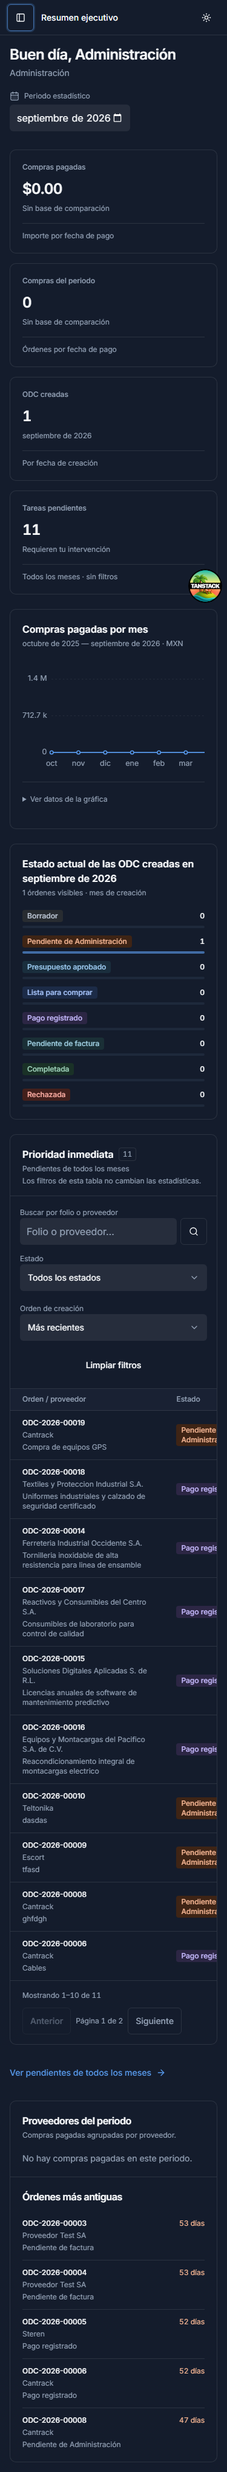
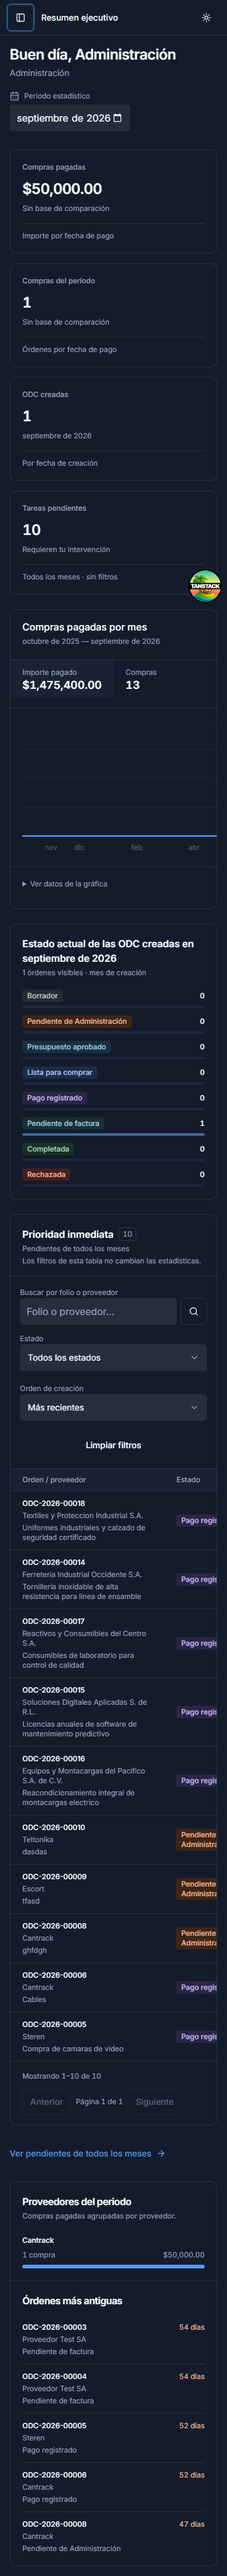
docs(workspace): record interactive chart verification (R7)

diff --git a/progress/review_executive-workspace-v2.md b/progress/review_executive-workspace-v2.md
@@ -9,9 +9,10 @@ Alcance: R1–R14 de la spec aprobada; no equivale a cerrar toda la auditoría d
 
 | Verificación | Resultado |
 |---|---|
-| `./init.sh` final, después de `67bff4d` | Exit 0; 484 tests backend, 655 frontend, ambos builds y lint backend verdes |
+| `./init.sh` final, después de `1054c8f` | Exit 0; 484 tests backend, 656 frontend, ambos builds y lint backend verdes |
 | PostgreSQL: `docker compose exec -T backend pnpm exec jest --config ./test/jest-e2e.json --runInBand --testPathPatterns executive-workspace` | 3/3; límites México/UTC, páginas 10/10/7, visibilidad, búsqueda literal, agregados reales. Tablas temporales y rollback, sin escrituras de negocio |
 | `pnpm --dir frontend exec playwright test e2e/dashboard-template.spec.ts --workers=1` | 3/3, 24 combinaciones: roles OPS/ADMIN/DG × 375/768/1024/1440 × claro/oscuro. Header fijo, 44px móvil, ejes ≥12px efectivos, sin overflow global ni errores de hidratación; menú y reduced motion |
+| `pnpm --dir frontend exec playwright test e2e/dashboard-template.spec.ts --grep "admin shell"` tras el ajuste | 1/1, 8 combinaciones ADMIN; selector importe/compras, línea visible, tamaños de eje, temas y ausencia de overflow |
 | `pnpm --dir frontend exec playwright test e2e/executive-workspace.spec.ts --workers=1` | 2/2 en código final: filtros/URL/retry exacto/respuesta tardía; creación revisada, teclado/Escape/foco, campos inválidos/válidos, modal móvil/escritorio claro/oscuro, header/aside, doble clic y reintento de la misma identidad |
 | Contraste | `styles.tokens.test.ts::R5` verifica ≥4.5:1 para estados y pares de texto usados, ambos temas; incluido en suite verde |
 | Detector Impeccable, siete targets cambiados | Una ejecución, exit 0, `[]`; no se interpreta como certificación de accesibilidad |
@@ -19,13 +20,13 @@ Alcance: R1–R14 de la spec aprobada; no equivale a cerrar toda la auditoría d
 
 Las pruebas de navegador interceptan cada escritura de creación/envío; el inicio de sesión de cuentas locales y las consultas son reales. La prueba de respuesta tardía deja volver a página 1 mientras página 3 está pendiente y confirma que su respuesta posterior no sustituye la selección vigente.
 
-Precisión de corridas: `odc-v2-visual-confirm.log` corresponde al dashboard corregido en el working tree antes de agruparlo en `67bff4d`; no cambió después. Usa `--output=test-results/workspace-matrix` (su `.last-run.json` está en passed), no el directorio default que conserva corridas rojas. El ajuste posterior del modal está cubierto por `odc-v2-flows-final.log` y `--output=test-results/workspace-flows`, también passed. Init sí corrió después de `67bff4d`; el cambio posterior `33c1f7c` solo quita una aserción de tipo redundante de una prueba, con lint y 7/7 verdes.
+Precisión de corridas: `odc-v2-visual-confirm.log` conserva la matriz original del dashboard en `67bff4d`. El ajuste posterior de gráfica quedó cubierto por la corrida ADMIN de ocho combinaciones, las capturas finales reemplazadas y el `init.sh` posterior a `1054c8f`. El ajuste del modal permanece cubierto por `odc-v2-flows-final.log` y `--output=test-results/workspace-flows`.
 
-El primer init bajo ejecución concurrente tuvo un timeout en DatePicker; el init aislado final pasó los 655 tests, incluido DatePicker. No se cambió ni silenció esa prueba.
+El primer init bajo ejecución concurrente tuvo un timeout en DatePicker; el init aislado final y el posterior al ajuste de gráfica pasaron, este último con 656 tests frontend. No se cambió ni silenció esa prueba.
 
 ## persistence
 
-Requisitos aprobados, enmienda de página y documentación de diseño sincronizada exclusivamente para #32. R→test→commit completo en `specs/executive-workspace-v2/traceability.md`. Sin nuevas dependencias ni migración de datos. STATUS, feature done, checklist y cierre de progreso registran este veredicto.
+Requisitos aprobados, enmienda de página y documentación de diseño sincronizada exclusivamente para #32. R→test→commit completo en `specs/executive-workspace-v2/traceability.md`. El ajuste posterior incorpora Recharts por solicitud explícita del usuario; no incluye migración de datos. STATUS, feature done, checklist y cierre de progreso registran este veredicto.
 
 ## fidelity
 
@@ -39,8 +40,8 @@ No se pidió reconstrucción de identidad ni ornamentación. Se conserva composi
 
 | Hallazgo | Corrección y evidencia | Veredicto final |
 |---|---|---|
-| Ejes SVG de 8.555px efectivos en móvil | Rojo `e5a1ca4`; `67bff4d` usa 16 unidades SVG y la matriz confirma ≥12px | **Resolved** |
-| R13/R14: evidencia final y estabilidad de formulario | 484+655 unitarias y 5 E2E verdes; SSR SVG `0652537`; proveedor sin cierre con valor viejo y espacio del botón cerrar `67bff4d` | **Resolved** |
+| Legibilidad de ejes en móvil | Rojo inicial `e5a1ca4`; la matriz actual mide las etiquetas Recharts en ≥12px | **Resolved** |
+| R13/R14: evidencia final y estabilidad de formulario | 484+656 unitarias verdes; selector interactivo verificado en ocho combinaciones; proveedor y modal permanecen cubiertos | **Resolved** |
 | C5/C6: estados y trazabilidad | `status: approved`, aprobación humana anterior, R1–R14 con tests/hashes, checklist de implementación | **Resolved** |
 
 ## keep
@@ -54,4 +55,4 @@ Estadísticas mensuales separadas de pendientes globales; reglas/visibilidad en 
 - Revisión de ODC móvil: [order-review-mobile.png](../.impeccable/review/order-review-mobile.png).
 - Revisión de ODC escritorio: [order-review-desktop.png](../.impeccable/review/order-review-desktop.png).
 
-Las 24 capturas de la matriz y cuatro del formulario se generan en `frontend/test-results/`; las cuatro anteriores se conservan como evidencia de cierre.
+Las 24 capturas de la matriz y cuatro del formulario se generan en `frontend/test-results/`; `desktop.png` y `mobile.png` corresponden a la gráfica interactiva actual.

diff --git a/specs/executive-workspace-v2/traceability.md b/specs/executive-workspace-v2/traceability.md
@@ -18,6 +18,7 @@ tags: [harness, spec, traceability]
 - R1: rojo `043ef67` → `192d74e`; header sticky/offsets y medición real en dashboard/formulario verdes.
 - R13 navegador: rojo `f121eed` → `192d74e`; `88981de` añade respuesta tardía de página 3 tras volver a página 1, sin sobrescribir datos/URL.
 - R14 SSR: rojo `0542704` → `0652537`, títulos SVG de un solo string; 7/7 pruebas de workspace verdes. R14 ejes: rojo `e5a1ca4` (8.555px efectivos) → `67bff4d` (≥12px medidos).
+- Ajuste R7 solicitado: rojo `784c9a6` → componente interactivo shadcn/Recharts `f53561b`; selector de importe/compras, tooltip, escala desde cero y tabla textual. Guardas de dependencia actualizadas en `1054c8f`. Playwright ADMIN pasó 8 combinaciones de tema/ancho y `init.sh` final pasó 484 backend / 656 frontend.
 - R11 proveedor: navegador rojo `88981de` → `67bff4d`, sin revalidar el valor anterior al cerrar el selector; 26 pruebas formulario/workspace verdes. E2E de creación intercepta todas las escrituras; no crea datos de negocio.
 - Matriz `frontend/e2e/dashboard-template.spec.ts`: 3 pruebas / 24 combinaciones verdes; 375/768/1024/1440, OPS/ADMIN/DG, claro/oscuro, sin desbordamiento global ni errores de hidratación. Contraste de tokens ≥4.5:1 cubierto por `frontend/src/styles.tokens.test.ts::R5`.
 
@@ -29,13 +30,13 @@ tags: [harness, spec, traceability]
 | R4 | mismos tests R2,R3,R4 y PostgreSQL R2-R10 — páginas 10/10/7 y orden estable | rojo `091f44a` → `8854dc9` |
 | R5 | `executive-workspace.spec.ts::R5,R7,R8,R9`; PostgreSQL R2-R10 — ADMIN DESC antes de paginar | rojo `091f44a` → `8854dc9` |
 | R6 | `frontend/src/components/odc/executive-workspace.test.tsx::R3,R4,R6,R7,R8,R9,R10`; PostgreSQL R2-R10 — periodo independiente | rojo `0962e9f` → `192d74e`; backend `8854dc9` |
-| R7 | `executive-workspace.spec.ts::R5,R7,R8,R9`; PostgreSQL R2-R10; UI R7 — doce meses y tabla textual | rojo `091f44a`/`0962e9f` → backend `8854dc9`, UI `192d74e` |
+| R7 | `executive-workspace.spec.ts::R5,R7,R8,R9`; PostgreSQL R2-R10; UI R7 — doce meses, selector interactivo y tabla textual | rojo `091f44a`/`0962e9f` → backend `8854dc9`, UI `192d74e`; ajuste rojo `784c9a6` → `f53561b` |
 | R8 | mismos tests backend R8 y UI R8 — ocho estados/cohorte y borradores ajenos | rojo `091f44a`/`0962e9f` → backend `8854dc9`, UI `192d74e` |
 | R9 | mismos tests backend R9 y UI R9 — cuatro KPI, null/cero y total completo | rojo `091f44a`/`0962e9f` → backend `8854dc9`, UI `192d74e` |
 | R10 | PostgreSQL R2-R10; `executive-workspace.test.tsx::R10`; regresiones `executive-dashboard.test.tsx` — contexto y enlace all | backend `8854dc9`; regresiones `7063c42`; UI `192d74e` |
 | R11 | `frontend/src/components/odc/odc-form.test.tsx::workspace v2 R11,R12` — revisión, snapshot, Escape/foco, cancelar | rojo `e4d4b4c` → `37956d9 feat(odc): review creation and recover saved submissions` |
 | R12 | mismo test R11,R12 — doble clic, folio real, reintento del mismo ID y resultado incierto | rojo `e4d4b4c` → `37956d9` |
 | R13 | `frontend/e2e/executive-workspace.spec.ts::R3,R4,R13` — retry de página 2 conserva filtros, back/forward y respuesta tardía de página 3 | rojo `f121eed` → `192d74e`; prueba ampliada `88981de` |
-| R14 | `frontend/src/lib/theme.test.tsx`; `executive-workspace.test.tsx::R14`; matriz `dashboard-template.spec.ts::R1,R14`; flujo `executive-workspace.spec.ts::R11,R12,R14`; contraste `styles.tokens.test.ts::R5`; acta de revisión e init final | tema `56474f1`; SVG `0652537`; legibilidad/formulario `67bff4d`; E2E `8fddbef` |
+| R14 | `frontend/src/lib/theme.test.tsx`; `executive-workspace.test.tsx::R14`; matriz `dashboard-template.spec.ts::R1,R14`; flujo `executive-workspace.spec.ts::R11,R12,R14`; contraste `styles.tokens.test.ts::R5`; acta de revisión e init final | tema `56474f1`; SVG inicial `0652537`; legibilidad/formulario `67bff4d`; E2E `8fddbef`; gráfica interactiva `f53561b` |
 
 Las pruebas PostgreSQL usan tablas temporales y rollback, sin modificar las tablas de negocio. Las capturas finales y el resultado del reviewer se registran en `progress/review_executive-workspace-v2.md`. El typecheck adicional mantiene los 18 errores históricos de tests documentados en la auditoría, sin errores nuevos en la aplicación.

diff --git a/STATUS.md b/STATUS.md
@@ -41,18 +41,19 @@ Requiere `.env` en la raíz (plantilla en `.env.example`): `DATABASE_URL`,
   [plans/002-system-review.md](plans/002-system-review.md). Incluye UX, integridad,
   archivos, consultas y preparación productiva. #32 resuelve el workspace;
   integridad/archivos y las demás entregas del plan conservan su alcance propio.
-- **#32 `executive-workspace-v2` done**: gráficas reales de 12 meses,
+- **#32 `executive-workspace-v2` done**: gráfica interactiva shadcn/Recharts con
+  importe pagado y número de compras sobre datos reales de 12 meses,
   indicadores y distribución por estado, filtros/paginación de 10, mes de creación
   en Mis tareas, prioridades ADMIN recientes, header fijo y resumen de creación
   con folio posterior. Requisitos en
   [specs/executive-workspace-v2/requirements.md](specs/executive-workspace-v2/requirements.md),
-  aprobados antes de código. Reutiliza shell/componentes actuales, sin dependencias nuevas.
+  aprobados antes de código. Reutiliza el shell y componentes actuales.
   Header de 58/64px, tablas de 10 con URL, creación por mes México y recuperación
   de envío sobre el mismo id; se corrigieron la hidratación del tema/gráfica y
   la validación tardía del proveedor. Evidencia en
   [progress/review_executive-workspace-v2.md](progress/review_executive-workspace-v2.md).
   Revisión independiente final: **ship**, tres correcciones materiales resueltas.
-- **Verificación #32**: init final verde (484 backend / 655 frontend), 3 pruebas
+- **Verificación #32**: init final verde (484 backend / 656 frontend), 3 pruebas
   PostgreSQL aisladas y 5 Playwright (matriz 24 combinaciones y flujos).
   El typecheck adicional conserva 18 errores previos en tests, sin errores nuevos
   de aplicación; es deuda F11 del plan, fuera del gate de build actual.

diff --git a/specs/executive-workspace-v2/design.md b/specs/executive-workspace-v2/design.md
@@ -65,7 +65,7 @@ Dashboard: `month` gobierna exclusivamente estadísticas. Los otros parámetros 
 
 Reutilizar Base UI/shadcn ya presente (`Table`, `Select`, `Input`, `Button`, `Dialog`, estados/alertas) y los tokens navy/estado/Inter aprobados. Buscar el componente mediante MCP shadcn si está disponible antes de instalar o escribir una nueva primitiva; si no está disponible, las primitivas locales cubren estos controles. El aviso MIT y la procedencia de la feature 31 se conservan.
 
-No hay biblioteca de gráficas instalada. Para esta primera serie fija de 12 meses, usar SVG/CSS semántico con ejes/meses y valores accesibles, acompañado de tabla textual consultable; distribución por estado con barras y leyenda de cantidades. Los tooltips, si existen, son complementarios y deben funcionar con teclado; no son el único acceso a los valores. Esta representación específica evita traer una biblioteca por una serie. Una dependencia solo se reconsidera si las interacciones aprobadas demuestran que la opción nativa no cubre accesibilidad/mantenimiento y queda justificada expresamente; no es el plan base.
+La implementación inicial usó SVG/CSS semántico. El 2026-09-13 el usuario solicitó expresamente sustituirla por el componente interactivo shadcn basado en Recharts. La adaptación permite alternar entre importe pagado y número de compras, conserva escala desde cero, datos reales de los 12 meses, tooltip y tabla textual consultable. La tabla sigue siendo la fuente accesible completa; el tooltip es complementario. La distribución por estado permanece con barras y cantidades.
 
 ## Creación, confirmación y recuperación
 

diff --git a/progress/history.md b/progress/history.md
@@ -666,3 +666,13 @@ estado: implementación aprobada; init inicial verde
 - Init exit 0 (484 backend / 655 frontend), PostgreSQL 3/3, matriz dashboard 3/3 (24 combinaciones), flujos 2/2, lint frontend de archivos cambiados corregido y typecheck sin errores nuevos de aplicación (18 históricos de tests).
 - Implementación UI `192d74e`; hidratación SVG `0652537`; legibilidad/proveedor/modal `67bff4d`; ajuste de lint en prueba `33c1f7c`. No migraciones, nuevas dependencias ni escrituras reales de creación/envío durante verificación.
 - Las siguientes entregas de la auditoría siguen documentadas en plans/002-system-review.md; no se declara despliegue ni certificación de producción.
+
+---
+
+## 2026-09-13 — Ajuste de gráfica interactiva en executive-workspace-v2
+
+- El usuario proporcionó el componente shadcn/Recharts y solicitó usarlo en el dashboard.
+- Se adaptó a los datos reales de 12 meses con selector entre importe pagado y número de compras, tooltip, escala desde cero y tabla textual accesible.
+- TDD: rojo `784c9a6` → implementación `f53561b`; guardas históricas de dependencias actualizadas en `1054c8f` por la excepción aprobada.
+- Verificación visual ADMIN en 375/768/1024/1440, claro/oscuro: 1/1 Playwright, sin overflow y con interacción correcta.
+- `./init.sh` final verde: 484 backend, 656 frontend, builds y lint backend.

diff --git a/progress/current.md b/progress/current.md
@@ -1,12 +1,10 @@
 # Sesión actual
 
-```
-feature: executive-workspace-v2 (ajuste de gráfica solicitado)
-inicio: 2026-09-13
-agentes lanzados: ninguno
-estado: in_progress
-```
+> Sin sesión activa. Lee feature_list.json antes de iniciar la siguiente.
 
-- Sustituir la gráfica SVG por el componente interactivo shadcn/Recharts compartido por el usuario.
-- Conservar datos reales, tabla textual accesible, estados vacíos y comportamiento responsive.
-- Verificar pruebas, build y cierre del repositorio.
+```
+feature: —
+inicio: —
+agentes lanzados: —
+estado: —
+```

diff --git a/specs/executive-workspace-v2/requirements.md b/specs/executive-workspace-v2/requirements.md
@@ -60,3 +60,7 @@ Tras aprobación, R4–R10 sustituyen los límites de cinco prioridades, el orde
 ## Aprobación
 
 - [X] Aprobado por humano (fecha: 2026-09-13)
+
+## Enmienda posterior solicitada
+
+- 2026-09-13: el usuario proporcionó el componente interactivo shadcn/Recharts y solicitó usarlo para la gráfica. Esta instrucción autoriza la excepción explícita al valor por defecto de R14; conserva los datos, periodo, escala y alternativa textual exigidos por R7.
